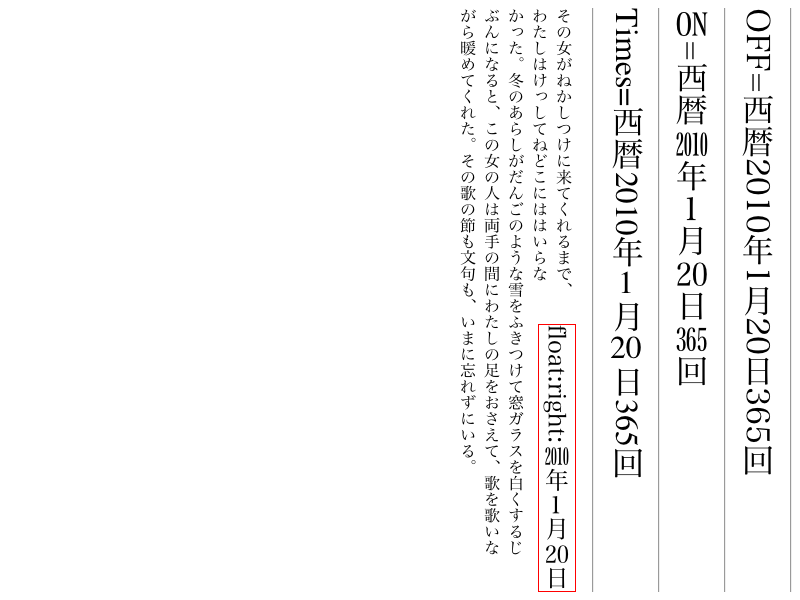
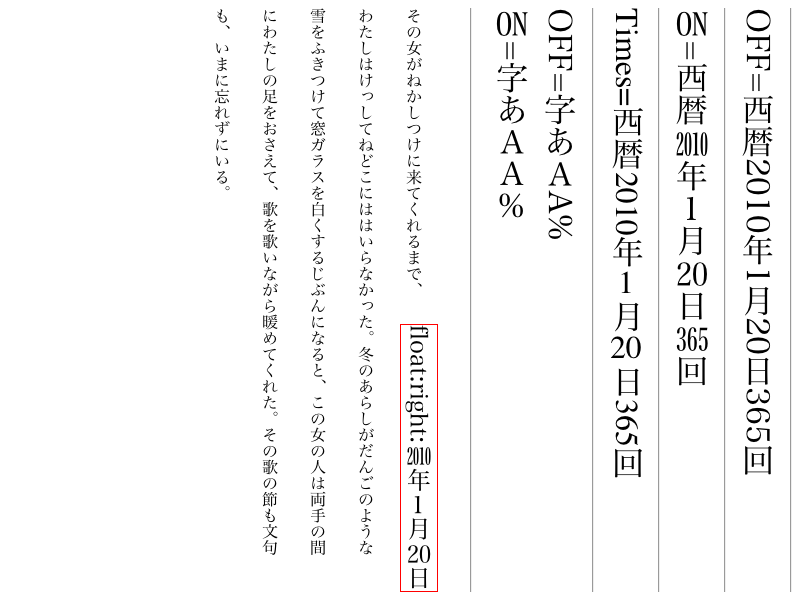
2011-02-10  takano takumi  <takano@apple.com>
Reviewed by Dan Bernstein.

        A full-width character rotated leftward 90 degrees in text-combine
        https://bugs.webkit.org/show_bug.cgi?id=54169

        Added a test for this bug to existing text-combine test.

        * fast/text/international/text-combine-image-test.html:
        * platform/mac/fast/text/international/text-combine-image-test-expected.checksum:
        * platform/mac/fast/text/international/text-combine-image-test-expected.png:
        * platform/mac/fast/text/international/text-combine-image-test-expected.txt:
2011-02-10  takano takumi  <takano@apple.com>

        Reviewed by Dan Bernstein.

        A full-width character rotated leftward 90 degrees in text-combine
        https://bugs.webkit.org/show_bug.cgi?id=54169

        * rendering/RenderCombineText.cpp:
        (WebCore::RenderCombineText::combineText):
        - Fixed by resetting font's orientation to horizontal when we decided to make combined text.
        Otherwise the text will be unexpectedly rotated in showGlyphsWithAdvances() in FontMac.mm.

git-svn-id: https://svn.webkit.org/repository/webkit/trunk@78204 268f45cc-cd09-0410-ab3c-d52691b4dbfc

diff --git a/LayoutTests/fast/text/international/text-combine-image-test.html b/LayoutTests/fast/text/international/text-combine-image-test.html
@@ -9,12 +9,17 @@ body {
 }
 
 #Hira24 {
-    font-family: "HiraMinPro-W3";
+    font-family: "HiraMinProN-W3";
     font-size: 24pt;
 }
 
-#Hira24_float {
-    font-family: "HiraMinPro-W3";
+#Hira12 {
+    font-family: "HiraMinProN-W3";
+    font-size: 12pt;
+}
+
+#Hira18_float {
+    font-family: "HiraMinProN-W3";
     font-size: 18pt;
     float: right;
     border: solid 1px;
@@ -40,9 +45,12 @@ body {
 <hr>
 <span id="Times24"><span id="combine">Times</span>=西暦<span id="combine">2010</span>年<span id="combine">1</span>月<span id="combine">20</span>日<span id="combine">365</span>回</span>
 <hr>
+<span id="Hira24">OFF=字あＡA%</span><br>
+<span id="Hira24"><span id="combine">ON</span>=<span id="combine">字</span><span id="combine">あ</span><span id="combine">Ａ</span><span id="combine">A</span><span id="combine">%</span>
+<hr>
 <p>
-<span id="Hira24_float">float:right:<span id="combine">2010</span>年<span id="combine">1</span>月<span id="combine">20</span>日</span>
-その女がねかしつけに来てくれるまで、わたしはけっしてねどこにははいらなかった。冬のあらしがだんごのような雪をふきつけて窓ガラスを白くするじぶんになると、この女の人は両手の間にわたしの足をおさえて、歌を歌いながら暖めてくれた。その歌の節も文句も、いまに忘れずにいる。
+<span id="Hira18_float">float:right:<span id="combine">2010</span>年<span id="combine">1</span>月<span id="combine">20</span>日</span>
+<span id="Hira12">その女がねかしつけに来てくれるまで、わたしはけっしてねどこにははいらなかった。冬のあらしがだんごのような雪をふきつけて窓ガラスを白くするじぶんになると、この女の人は両手の間にわたしの足をおさえて、歌を歌いながら暖めてくれた。その歌の節も文句も、いまに忘れずにいる。</span>
 </p>
 </body>
 </html>

diff --git a/Source/WebCore/rendering/RenderCombineText.cpp b/Source/WebCore/rendering/RenderCombineText.cpp
@@ -93,17 +93,22 @@ void RenderCombineText::combineText()
         return;
 
     TextRun run = TextRun(String(text()));
-    float emWidth = style()->font().fontDescription().computedSize() * textCombineMargin;
+    FontDescription description = style()->font().fontDescription();
+    float emWidth = description.computedSize() * textCombineMargin;
+    bool shouldUpdateFont = false;
+
+    description.setOrientation(Horizontal); // We are going to draw combined text horizontally.
     m_combinedTextWidth = style()->font().floatWidth(run);
     m_isCombined = m_combinedTextWidth <= emWidth;
 
-    if (!m_isCombined) {
+    if (m_isCombined)
+        shouldUpdateFont = style()->setFontDescription(description); // Need to change font orientation to horizontal.
+    else {
         // Need to try compressed glyphs.
         static const FontWidthVariant widthVariants[] = { HalfWidth, ThirdWidth, QuarterWidth };
-        FontDescription compressedFontDescription = style()->font().fontDescription();
         for (size_t i = 0 ; i < WTF_ARRAY_LENGTH(widthVariants) ; ++i) {
-            compressedFontDescription.setWidthVariant(widthVariants[i]);
-            Font compressedFont = Font(compressedFontDescription, style()->font().letterSpacing(), style()->font().wordSpacing());
+            description.setWidthVariant(widthVariants[i]);
+            Font compressedFont = Font(description, style()->font().letterSpacing(), style()->font().wordSpacing());
             compressedFont.update(style()->font().fontSelector());
             float runWidth = compressedFont.floatWidth(run);
             if (runWidth <= emWidth) {
@@ -111,13 +116,14 @@ void RenderCombineText::combineText()
                 m_isCombined = true;
 
                 // Replace my font with the new one.
-                if (style()->setFontDescription(compressedFontDescription))
-                    style()->font().update(style()->font().fontSelector());
-
+                shouldUpdateFont = style()->setFontDescription(description);
                 break;
             }
         }
     }
+
+    if (shouldUpdateFont)
+        style()->font().update(style()->font().fontSelector());
 
     if (m_isCombined) {
         static const UChar newCharacter = objectReplacementCharacter;
